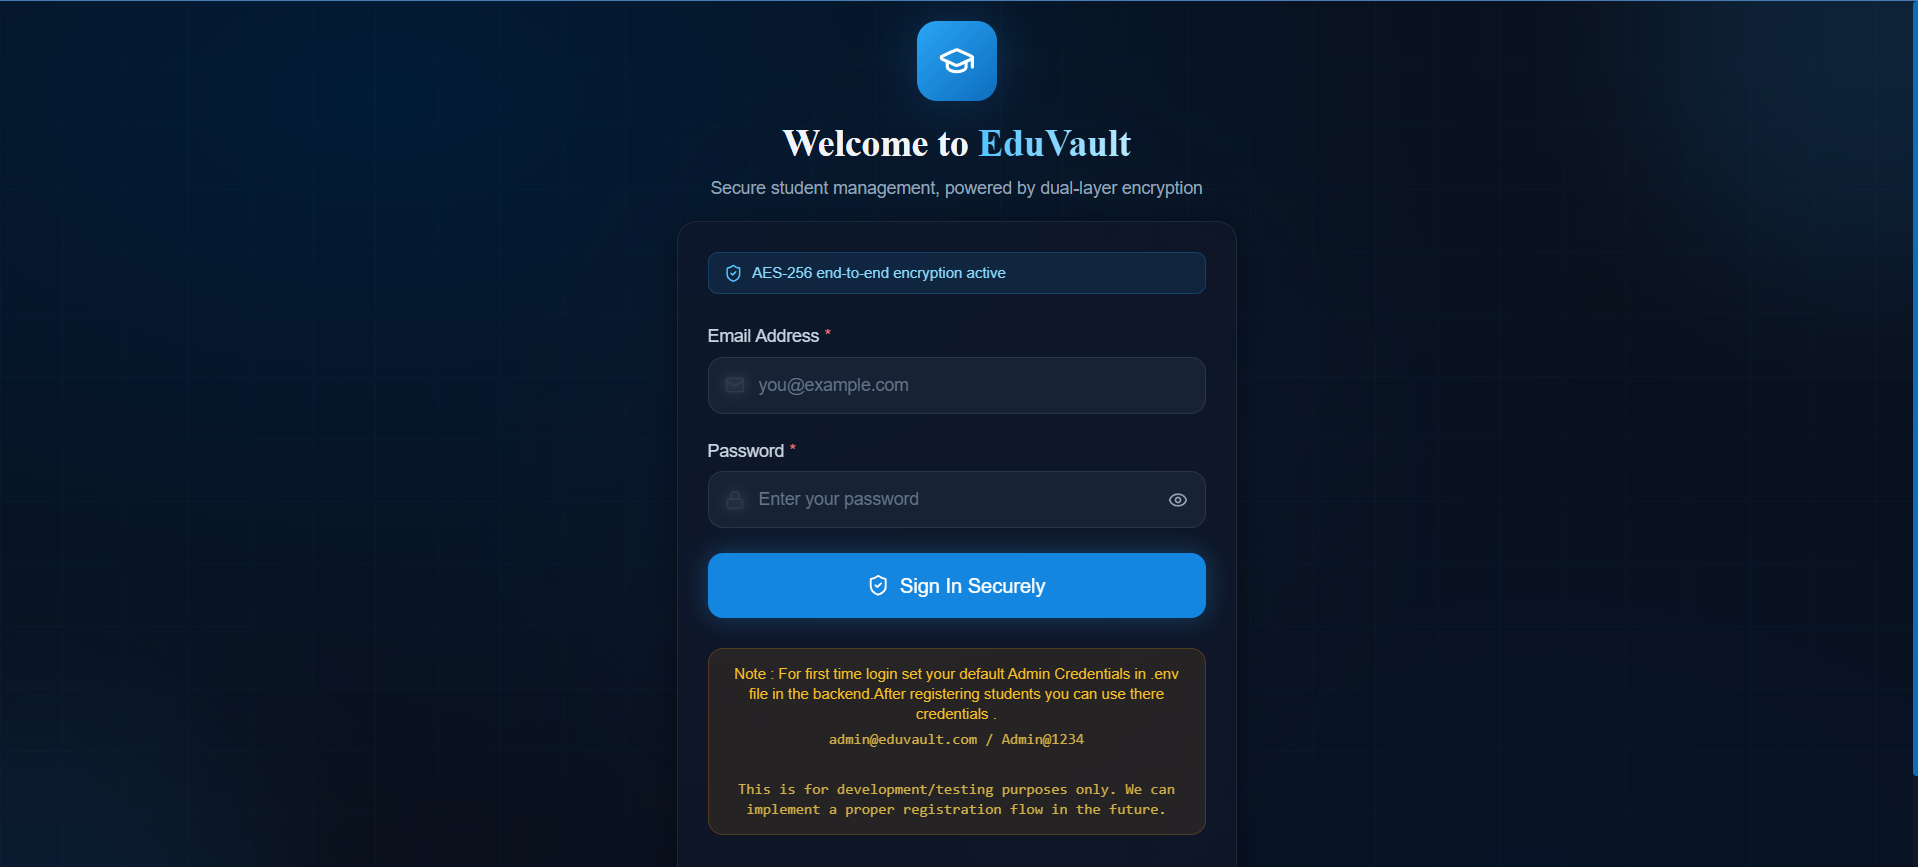
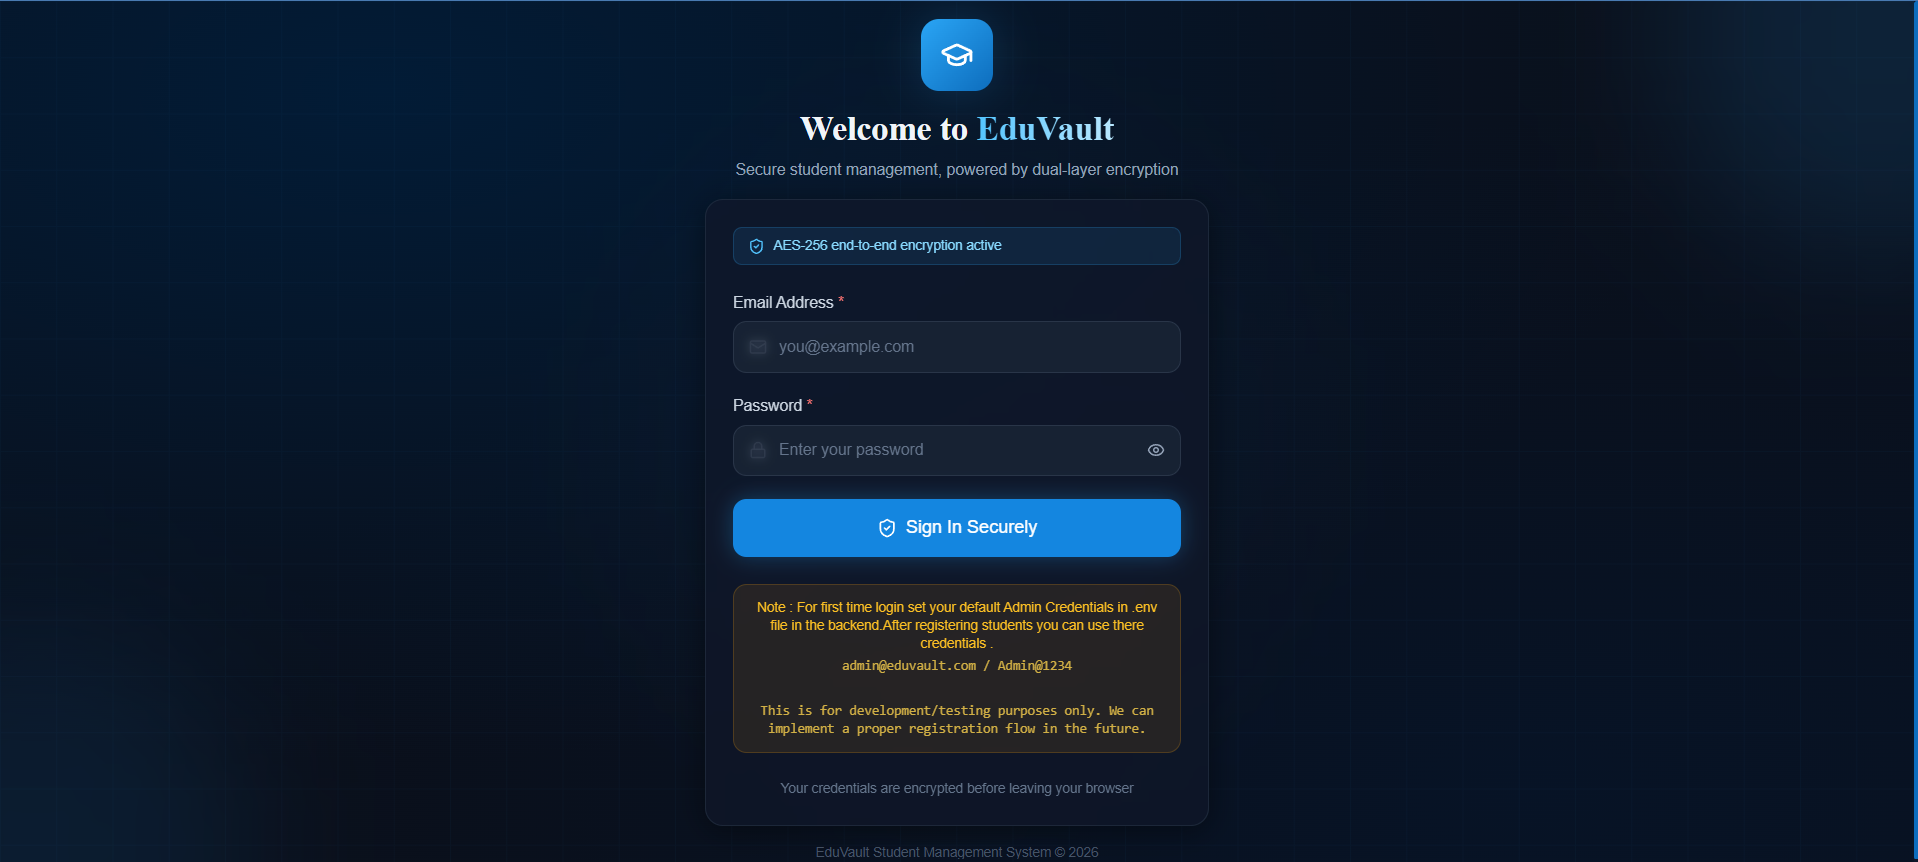
upoaded screenshots

diff --git a/README.md b/README.md
@@ -199,3 +199,24 @@ npm run dev
 ## Login Page
 
 ![Login](./images/login.png)
+
+## Dashboard Page
+
+![DASHBOARD-1](./images/dashboard_1.png)
+
+![DASHBOARD-2](./images/dashboard_2.png)
+
+![DASHBOARD-3](./images/dashboard_3.png)
+
+## Register student Page
+
+![REGISTER_STUDENT](./images/register_student.png)
+
+## Edit student info Page
+
+![EDIT_STUDENT](./images/edit_student.png)
+
+## Delete student Page
+
+![DELETE_STUDENT](./images/delete_student.png)
+
